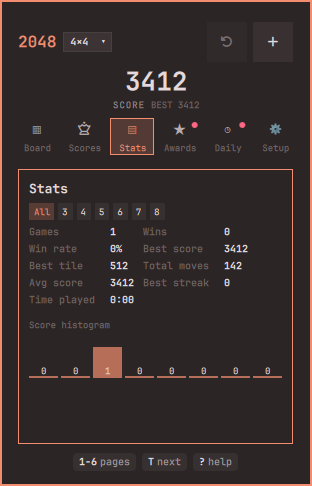
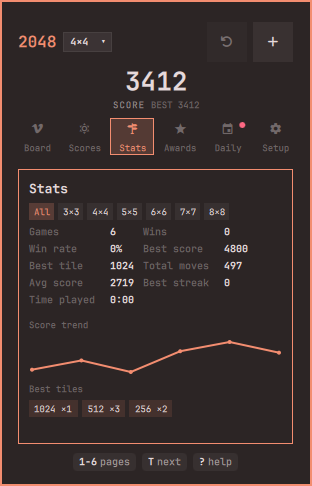
docs: refresh screenshots and preview for the review fixes

diff --git a/README.md b/README.md
@@ -6,11 +6,11 @@ The classic 2048 sliding-tile game in a keyboard-driven, theme-aware Omarchy bar
 
 ## Screenshots
 
-| Board (4×4) | Board (6×6) | Settings |
-|:---:|:---:|:---:|
-| ![4x4 board](screenshots/board-4x4.png) | ![6x6 board](screenshots/board-6x6.png) | ![Settings](screenshots/settings.png) |
-| **Stats** | **Achievements** | **Daily challenge** |
-| ![Stats](screenshots/stats.png) | ![Achievements](screenshots/achievements.png) | ![Daily](screenshots/daily.png) |
+| Board (4×4) | Board (6×6) | Size picker | Scores |
+|:---:|:---:|:---:|:---:|
+| ![4x4 board](screenshots/board-4x4.png) | ![6x6 board](screenshots/board-6x6.png) | ![Size picker](screenshots/dropdown.png) | ![Scores](screenshots/scores.png) |
+| **Stats** | **Settings** | **Achievements** | **Daily challenge** |
+| ![Stats](screenshots/stats.png) | ![Settings](screenshots/settings.png) | ![Achievements](screenshots/achievements.png) | ![Daily](screenshots/daily.png) |
 
 ## Features
 
@@ -22,7 +22,7 @@ The classic 2048 sliding-tile game in a keyboard-driven, theme-aware Omarchy bar
 - Play with the keyboard, mouse or touchpad (drag/swipe), and a full keyboard help overlay on `?`.
 
 **Progress**
-- **Stats** per size and overall: games, wins, win rate, best score, best tile, total moves, average score, longest streak, time played, and a score histogram.
+- **Stats** per size and overall: games, wins, win rate, best score, best tile, total moves, average score, longest streak, time played, a **score trend** over your recent games and a **best-tile breakdown** as labelled chips.
 - **Achievements** (a badge grid with unlock toasts): first 512/1024/2048/4096, a win without undo, a win in ≤100 moves, a 5-win streak, and a comeback from a crowded board.
 - **Daily challenge**: the same date-seeded board for everyone, one attempt a day, its own history, and share text copied to the clipboard.
 
@@ -47,7 +47,7 @@ The classic 2048 sliding-tile game in a keyboard-driven, theme-aware Omarchy bar
 | Persisted board, best, leaderboard | sometimes | ✓ |
 | Multiple board sizes (3×3 – 8×8) | sometimes | ✓ |
 | Undo | sometimes | ✓ (50 moves, assisted flag) |
-| Stats page with histogram | rare | ✓ |
+| Stats page with a score trend + tile breakdown | rare | ✓ |
 | Achievements | rare | ✓ |
 | Daily challenge (seeded) | rare | ✓ |
 | High-contrast palette | rare | ✓ |
